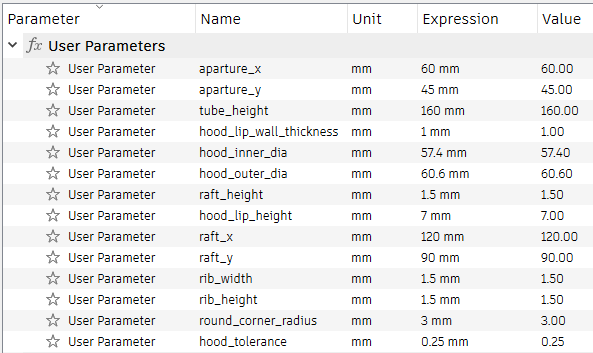
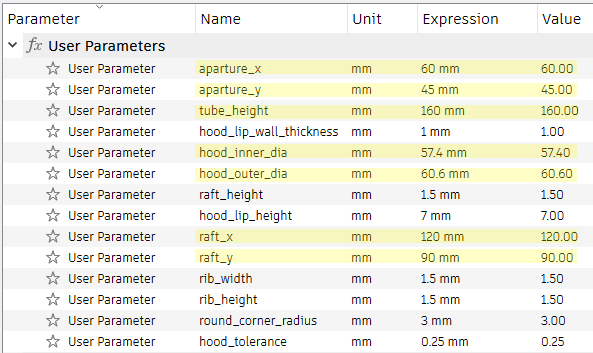
added highlights

Changed region(s): [[0.3035, 0.1558, 0.9713, 0.3428], [0.3035, 0.6232, 0.9713, 0.7479], [0.3035, 0.4051, 0.9713, 0.5297]]

diff --git a/cone_customization.md b/cone_customization.md
@@ -98,13 +98,19 @@ That's it! We're done.
 
 Back in Autodesk Fusion. We can now put in the values we just measured.
 
-ℹ Click the **number in Expression column** to change the value.
+* Click the **number in Expression column** to change the value.
+
+![Alt text](images/click.png)
+
+Usually, the following values need to be changed:
+
+![Alt text](images/newpara.png)
 
 #### `aperture_x` and `aperture_y`
 
 * Size of the scanning window.
 * 24×36mm for 135, 60x45mm for 645, 60x90mm for 6x9, etc.
-* Add an extra 1mm for margin of error if you want.
+* Add extra 1mm for margin of error if you want.
 
 #### `tube_height`
 
@@ -121,9 +127,10 @@ Back in Autodesk Fusion. We can now put in the values we just measured.
 * Default is 90x90mm, works pretty well.
 * Increase slightly for larger formats.
 
-![Alt text](images/newpara.png)
 
-No need to change any other parameters.
+No need to change anything else.
+
+---------
 
 As you type in new values, the cone changes shape accordingly.
 
@@ -146,7 +153,7 @@ We can now 3D print the new cone!
 
 ![Alt text](images/save.png)
 
-Now with your very own bespoke traffic cone, head back to [the main guide!](README.md#printing-the-cone) (`Printing the cone` section)
+Now with your very own bespoke traffic cone model, head back to [the main guide!](README.md#printing-the-cone) (`Printing the cone` section)
 
 ## License Note
 
